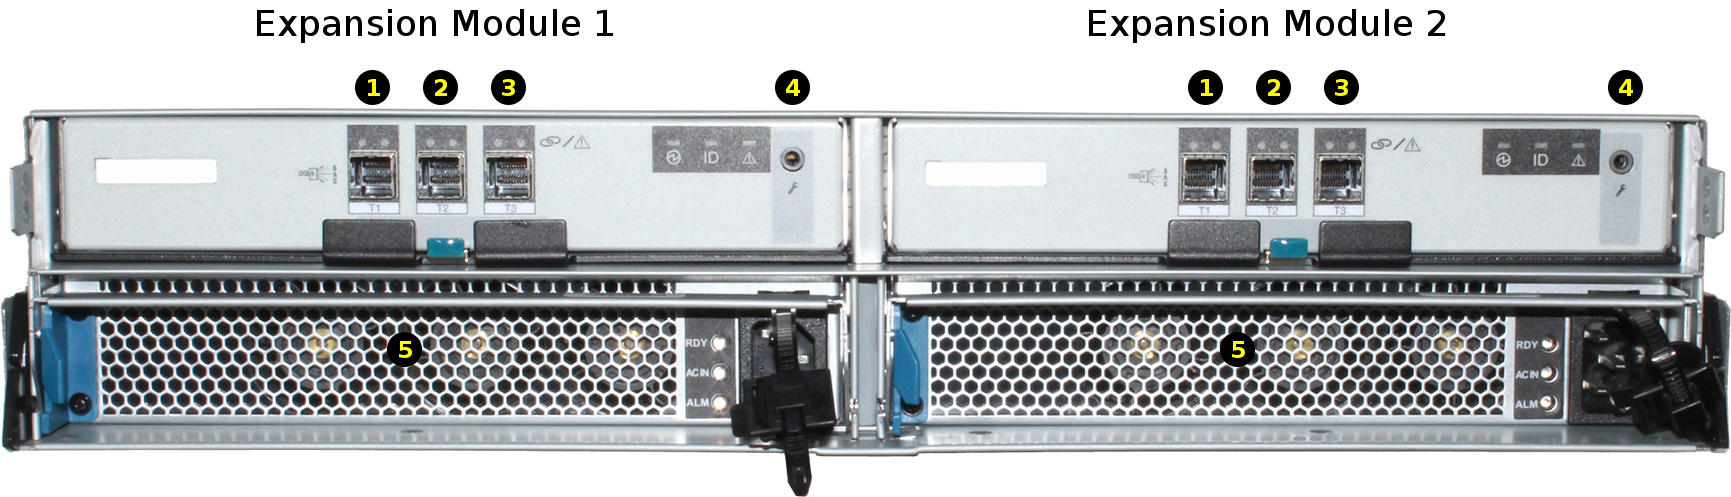
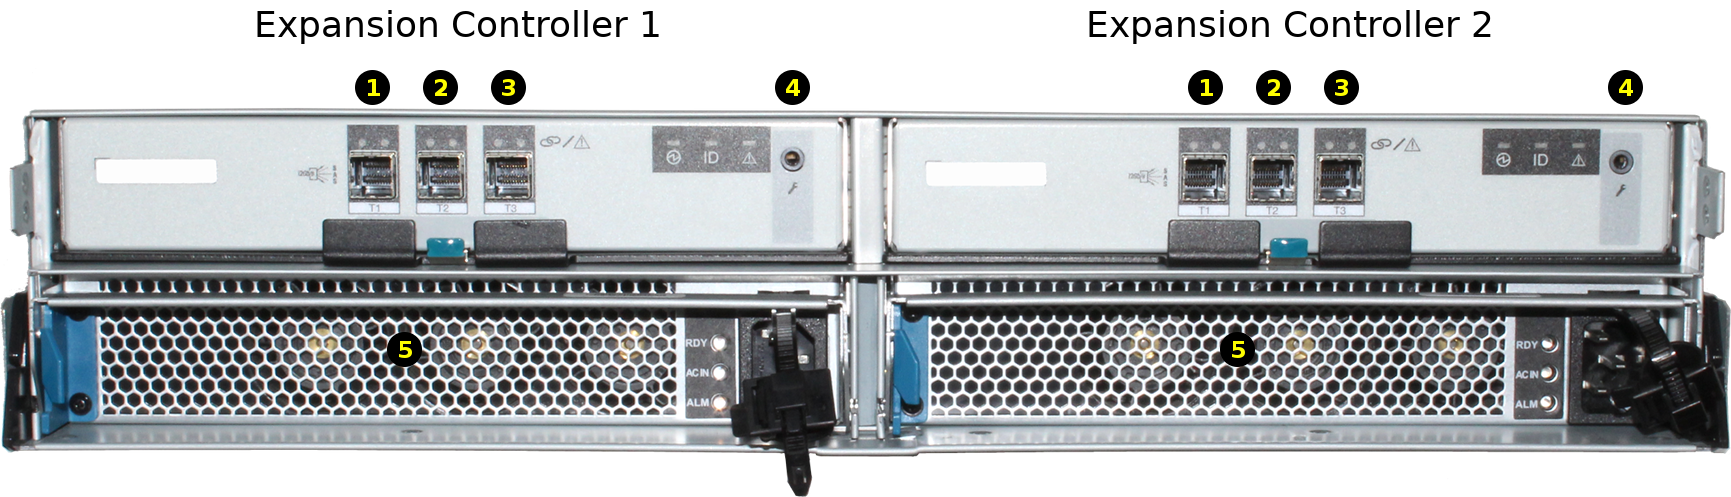
Replaced all expansion module references to expansion controller based on a request made in redmine ticket 57321.

Changed region(s): [[0.6239, 0.0, 0.8423, 0.0905], [0.156, 0.0, 0.3744, 0.0905]]

diff --git a/userguide/snippets/es60.rst b/userguide/snippets/es60.rst
@@ -76,8 +76,9 @@ Rear view of the ES60 Expansion Shelf:
 .. figure:: images/tn_es60_back.png
 
 
-The ES60 contains two expansion modules in a side-by-side
-configuration. The connectors and features on each module are:
+The ES60 contains two expansion controllers in a side-by-side
+configuration. The connectors and features on each expansion controller
+are:
 
 
 .. tabularcolumns:: |>{\RaggedRight}p{\dimexpr 0.5\linewidth-2\tabcolsep}
@@ -321,10 +322,10 @@ Plug the ES60 power cords into power outlets.
 Connecting the ES60 to a %brand% X20
 ^^^^^^^^^^^^^^^^^^^^^^^^^^^^^^^^^^^^^^^^^^^^^^
 
-Connect an SAS cable from the ES60 expander module 1 connector 1 to
+Connect an SAS cable from the ES60 expansion controller 1 connector 1 to
 the X20 1 SAS 1 connector (cable #1 in photo). If the X20 has a second
 storage controller for HA (High Availability), connect a second SAS
-cable from the ES60 expander module 2 connector 1 to the X20 storage
+cable from the ES60 expansion controller 2 connector 1 to the X20 storage
 controller 2 SAS 1 connector (cable #2 in photo).
 
 
@@ -336,10 +337,10 @@ controller 2 SAS 1 connector (cable #2 in photo).
 Connecting the ES60 to a %brand% Z35
 ^^^^^^^^^^^^^^^^^^^^^^^^^^^^^^^^^^^^^^^^^^^^^^
 
-Connect an SAS cable from the ES60 expander module 1 connector 1 to
+Connect an SAS cable from the ES60 expansion controller 1 connector 1 to
 the Z35 Controller 1 SAS 1 connector (cable #1 in photo). If the Z35
 has a second storage controller for HA (High Availability), connect a
-second SAS cable from the ES60 expander module 2 connector 1 to the Z35
+second SAS cable from the ES60 expansion controller 2 connector 1 to the Z35
 Controller 2 SAS 1 connector (cable #2 in photo).
 
 

diff --git a/userguide/snippets/es12.rst b/userguide/snippets/es12.rst
@@ -8,7 +8,7 @@ ES12 Expansion Shelf
 --------------------
 
 The %brand% ES12 is 2U, 12-bay, SAS3 (12 Gb/s) expansion shelf with
-dual expansion modules and redundant power supplies.
+dual expansion controllers and redundant power supplies.
 
 
 #include snippets/perfect.rst
@@ -72,8 +72,8 @@ software issues an
    :width: 50%
 
 
-The ES12 contains two expansion modules in a side-by-side
-configuration. The connectors and features on each module are:
+The ES12 contains two expansion controllers in a side-by-side
+configuration. The connectors and features on each controller are:
 
 .. tabularcolumns:: |>{\RaggedRight}p{\dimexpr 0.5\linewidth-2\tabcolsep}|
 
@@ -135,12 +135,12 @@ power cables from the power outlets.
 Plug the ES12 power cords into power outlets.
 **Wait two minutes for the drives to start.**
 
-Connect an SAS cable from the ES12 expander module 1 T1 connector to
+Connect an SAS cable from the ES12 expansion controller 1 T1 connector to
 the X-Series storage controller 1 SAS 1 connector (cable #1 in photo).
 
 If the X-Series has a second storage controller for HA
-(High Availability), connect a second SAS cable from the ES12 expander
-module 2 to the X-Series storage controller 2 SAS 1 connector (cable #2
+(High Availability), connect a second SAS cable from the ES12 expansion
+controller 2 to the X-Series storage controller 2 SAS 1 connector (cable #2
 in photo).
 
 

diff --git a/userguide/snippets/es24.rst b/userguide/snippets/es24.rst
@@ -8,7 +8,7 @@ ES24 Expansion Shelf
 --------------------
 
 The %brand% ES24 is a 4U, 24-bay, SAS3 (12 Gb/s) expansion shelf with
-dual expansion modules and redundant power supplies.
+dual expansion controllers and redundant power supplies.
 
 
 #include snippets/perfect.rst
@@ -73,8 +73,8 @@ software has issued an
    Back Panel
 
 
-The ES24 contains two expansion modules in an over/under
-configuration. The connectors and features on each module are:
+The ES24 contains two expansion controllers in an over/under
+configuration. The connectors and features on each controller are:
 
 
 .. tabularcolumns:: |>{\RaggedRight}p{\dimexpr 0.5\linewidth-2\tabcolsep}|
@@ -126,12 +126,12 @@ Plug the ES24 power cords into power outlets.
    shelf is connected.
 
 
-Connect an SAS cable from ES24 expansion module 1 SAS 0 connector to
+Connect an SAS cable from ES24 expansion controller 1 SAS 0 connector to
 the farthest left Z-Series storage controller 1 SAS connector (cable #1
 in photo).
 
 If the Z-Series has a second storage controller for HA (High
-Availability), connect a second SAS cable from ES24 expansion module 2
+Availability), connect a second SAS cable from ES24 expansion controller 2
 SAS 0 connector to the farthest left Z-Series storage controller 2 SAS
 connector (cable #2 in photo).
 
